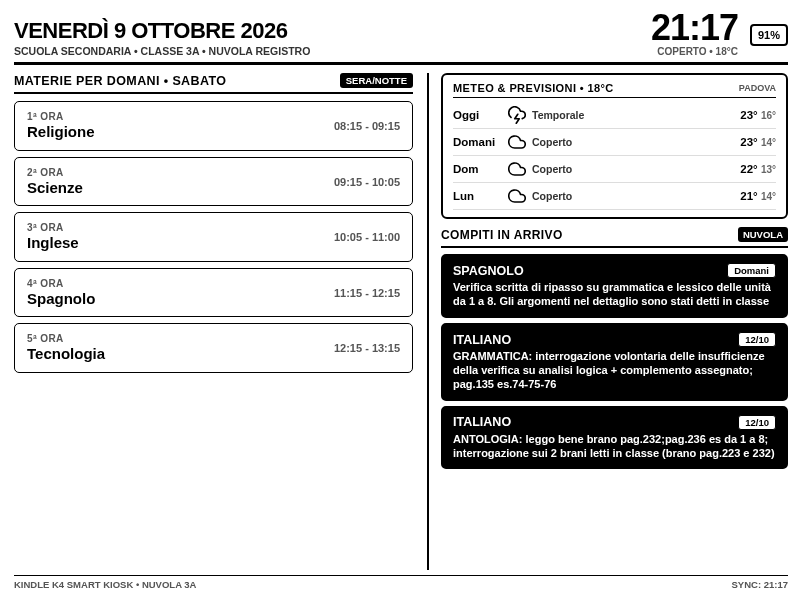
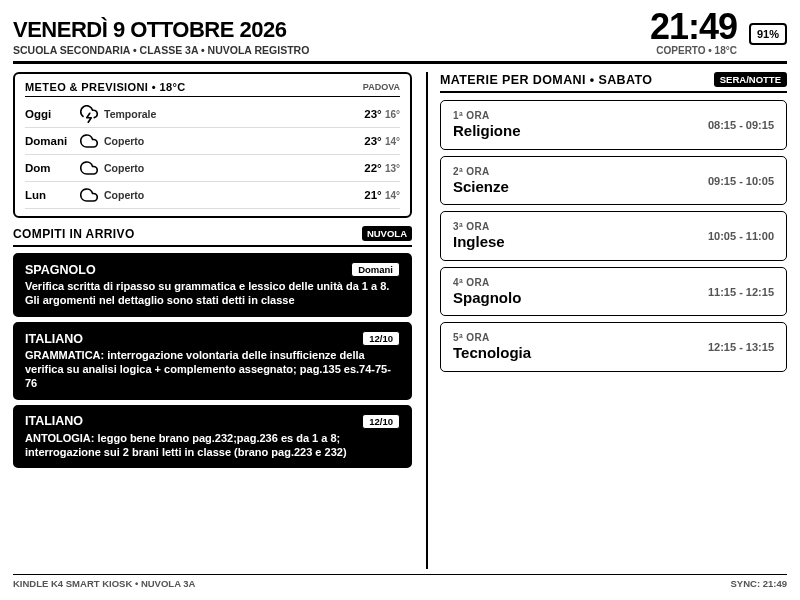
feat(k4): inverti colonne scambiando compiti/meteo a sinistra e orario lezioni a destra

diff --git a/dashboard_k4.py b/dashboard_k4.py
@@ -84,10 +84,10 @@ def build_k4_dashboard_html(query_params, weather_getter=None):
     t_2030 = time(20, 30)
 
     # Identificazione fase oraria K4:
-    # 1. 07:00 - 08:30: "morning_prep" (Materie di Oggi a sinistra, Meteo + Compiti a destra)
-    # 2. 08:30 - 13:00: "school_progress" (Avanzamento lezioni a sinistra, Meteo + Compiti a destra)
+    # 1. 07:00 - 08:30: "morning_prep" (Meteo + Compiti a sinistra, Materie di Oggi a destra)
+    # 2. 08:30 - 13:00: "school_progress" (Meteo + Compiti a sinistra, Avanzamento lezioni a destra)
     # 3. 13:00 - 20:30: "afternoon_homework" (Compiti domani a sinistra, Materie domani a destra, Meteo orizzontale sotto)
-    # 4. 20:30 - 07:00: "night_prep" (Materie di domani per zaino a sinistra, Meteo + Compiti a destra)
+    # 4. 20:30 - 07:00: "night_prep" (Meteo + Compiti a sinistra, Materie di domani a destra)
     override_phase = query_params.get("phase", [""])[0]
     if override_phase in ["morning_prep", "school_progress", "afternoon_homework", "night_prep"]:
         phase = override_phase
@@ -303,37 +303,37 @@ def build_k4_dashboard_html(query_params, weather_getter=None):
 
     # Layout delle due colonne in base alla fase oraria
     if phase == "morning_prep":
-        # 07:00 - 08:30: Materie di oggi (SX), Meteo in alto a DX + Compiti in basso a DX
-        col_left = render_lessons_html(today_lessons, f"MATERIE DI OGGI • {today_name.upper()}", "ORARIO LEZIONI")
-        col_right = f'''
+        # 07:00 - 08:30: Meteo + Compiti a SX, Materie di oggi a DX
+        col_left = f'''
         <div style="display:flex;flex-direction:column;height:100%;">
           {render_vertical_weather_box_html(meteo)}
           {render_tasks_box_html(nuvola_tasks, "COMPITI & VERIFICHE", "NUVOLA", max_items=3)}
         </div>
         '''
+        col_right = render_lessons_html(today_lessons, f"MATERIE DI OGGI • {today_name.upper()}", "ORARIO LEZIONI")
     elif phase == "school_progress":
-        # 08:30 - 13:00: Avanzamento progressivo lezioni (SX), Meteo + Compiti a DX
-        col_left = render_lessons_html(today_lessons, f"LEZIONI IN CORSO • {today_name.upper()}", "IN DIRETTA", highlight_current=True)
-        col_right = f'''
+        # 08:30 - 13:00: Meteo + Compiti a SX, Avanzamento lezioni a DX
+        col_left = f'''
         <div style="display:flex;flex-direction:column;height:100%;">
           {render_vertical_weather_box_html(meteo)}
           {render_tasks_box_html(nuvola_tasks, "COMPITI & PROMEMORIA", "PROSSIMI", max_items=3)}
         </div>
         '''
+        col_right = render_lessons_html(today_lessons, f"LEZIONI IN CORSO • {today_name.upper()}", "IN DIRETTA", highlight_current=True)
     elif phase == "afternoon_homework":
-        # 13:00 - 20:30: Compiti domani a tutta colonna a sinistra (senza limiti di righe!), Materie domani a destra, Meteo orizzontale sotto!
+        # 13:00 - 20:30: Compiti domani a tutta colonna a sinistra, Materie domani a destra, Meteo orizzontale sotto!
         col_left = render_tasks_box_html(nuvola_tasks, "COMPITI PER CASA &amp; VERIFICHE", "DOMANI", max_items=4)
         col_right = render_lessons_html(tomorrow_lessons, f"LEZIONI DI DOMANI • {tomorrow_name.upper()}", "ZAINO", highlight_current=False)
         bottom_weather_html = render_horizontal_weather_bar_html(meteo)
     else:
-        # 20:30 - 07:00: Materie per domani per controllo zaino (SX), Meteo + Compiti a DX
-        col_left = render_lessons_html(tomorrow_lessons, f"MATERIE PER DOMANI • {tomorrow_name.upper()}", "SERA/NOTTE")
-        col_right = f'''
+        # 20:30 - 07:00: Meteo + Compiti a SX, Materie per domani per zaino a DX
+        col_left = f'''
         <div style="display:flex;flex-direction:column;height:100%;">
           {render_vertical_weather_box_html(meteo)}
           {render_tasks_box_html(nuvola_tasks, "COMPITI IN ARRIVO", "NUVOLA", max_items=3)}
         </div>
         '''
+        col_right = render_lessons_html(tomorrow_lessons, f"MATERIE PER DOMANI • {tomorrow_name.upper()}", "SERA/NOTTE")
 
     # Pixel Shifting K4 impercettibile (±1px su 800x600)
     minute_idx = now.minute
